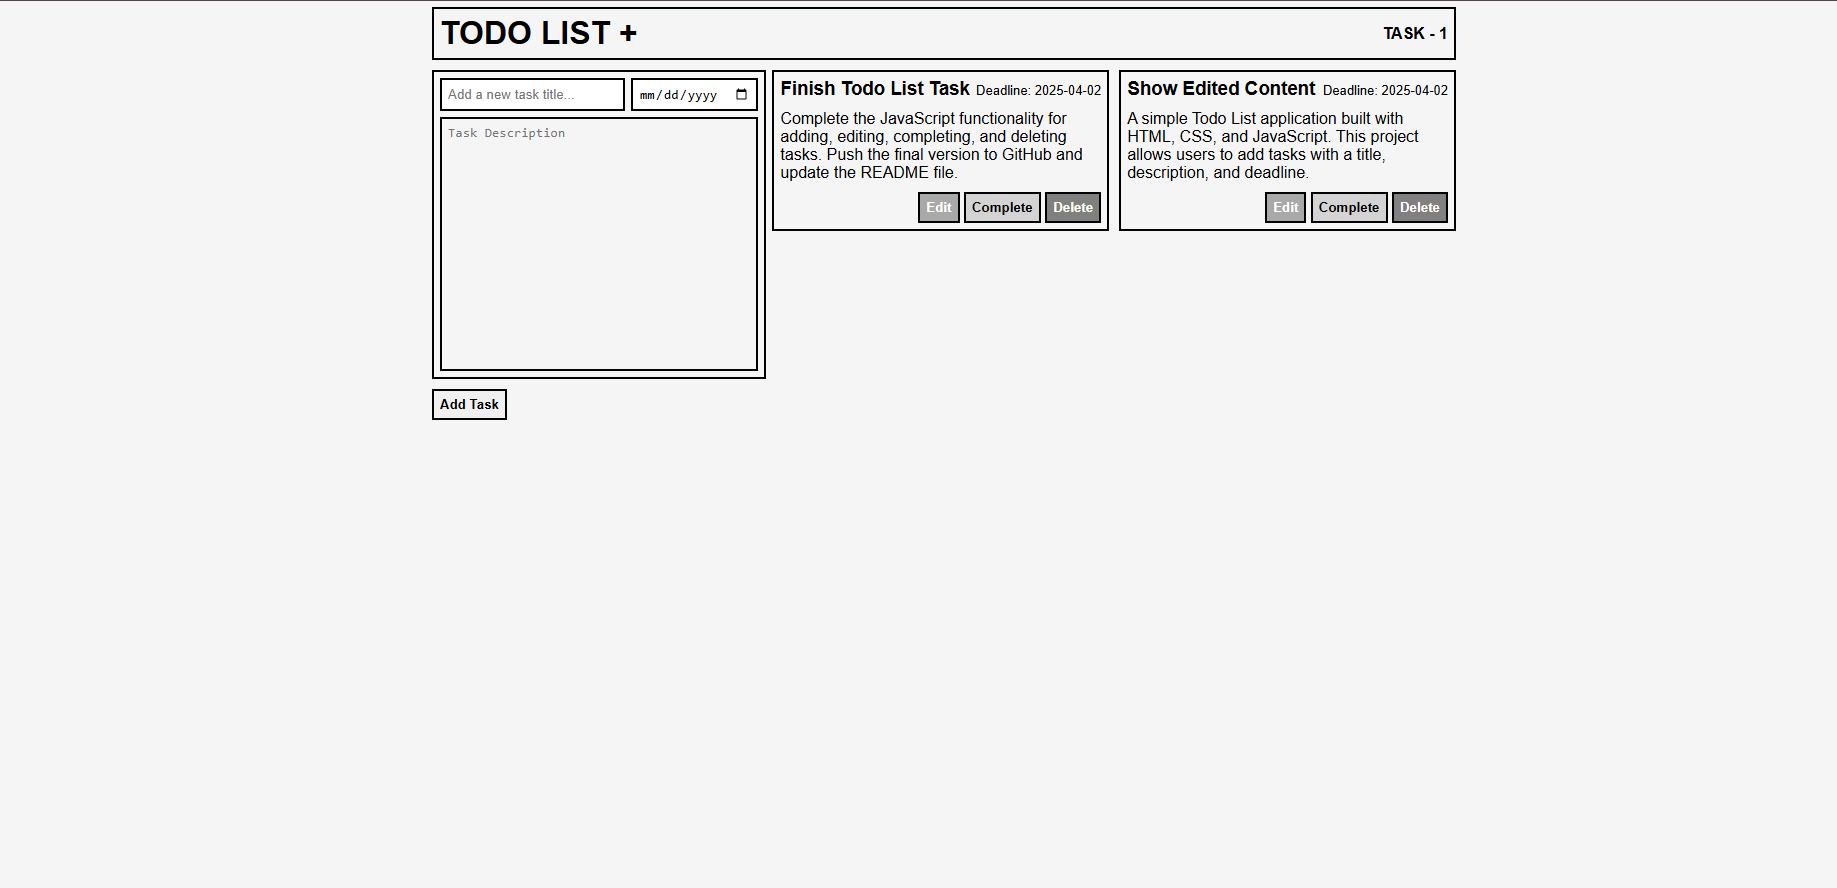
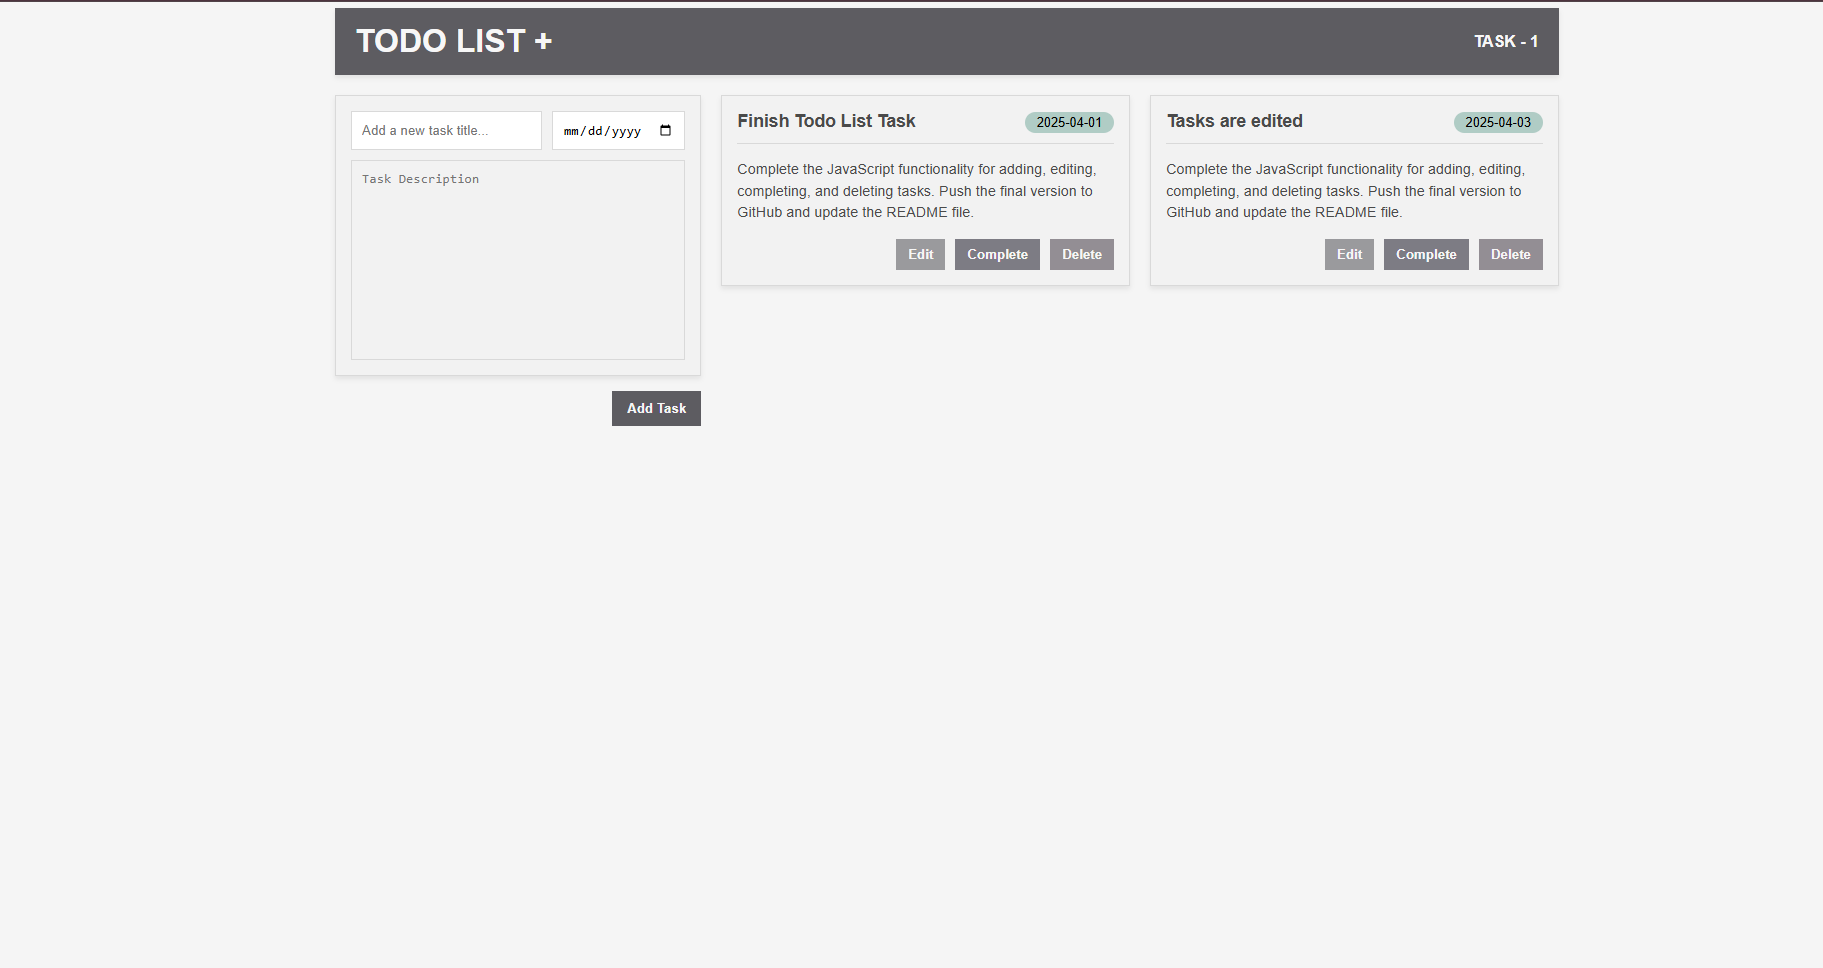
Task 1 : update asset images in basic-projects for the new UI

Changed region(s): [[0.1843, 0.0, 0.8601, 0.4865]]

diff --git a/basic-projects/task-todo-js/README.md b/basic-projects/task-todo-js/README.md
@@ -5,16 +5,15 @@ A simple Todo List application built with HTML, CSS, and JavaScript. This projec
 ## Features
 
 - **Add Tasks:** Create new tasks with a title, description, and deadline.
-  ![Add Tasks](../assets/create_task.png) - *Users can input task details and add them to the list.*
-  ![View Tasks](../assets/multiple_tasks.png) - *Users can see the tasks in a grid*
+  ![Add Tasks](../assets/create_task.png) - _Users can input task details and add them to the list._
+  ![View Tasks](../assets/multiple_tasks.png) - _Users can see the tasks in a grid_
 - **Edit Tasks:** Update task details.
-  ![Edit Tasks](../assets/edit_task.png) - *Tasks can be modified after they have been created.*
-  ![Edited Tasks](../assets/after_edit_of_task.png) - *After the task is modified*
-  
+  ![Edit Tasks](../assets/edit_task.png) - _Tasks can be modified after they have been created._
+  ![Edited Tasks](../assets/after_edit_of_task.png) - _After the task is modified_
 - **Complete Tasks:** Mark tasks as completed.
-  ![Complete Tasks](../assets/complete_task.png) - *Visually distinguish completed tasks from pending ones.*
+  ![Complete Tasks](../assets/complete_task.png) - _Visually distinguish completed tasks from pending ones._
 - **Delete Tasks:** Remove tasks from the list.
-  *Tasks can be permanently removed from the list as you can see on the previous image the modified task is removed*
+  _Tasks can be permanently removed from the list as you can see on the previous image the modified task is removed_
 
 - **Local Storage:** Tasks are saved in the browser for persistent data.
 - **Notifications:** Display informative messages to the user using a toast notification system.
